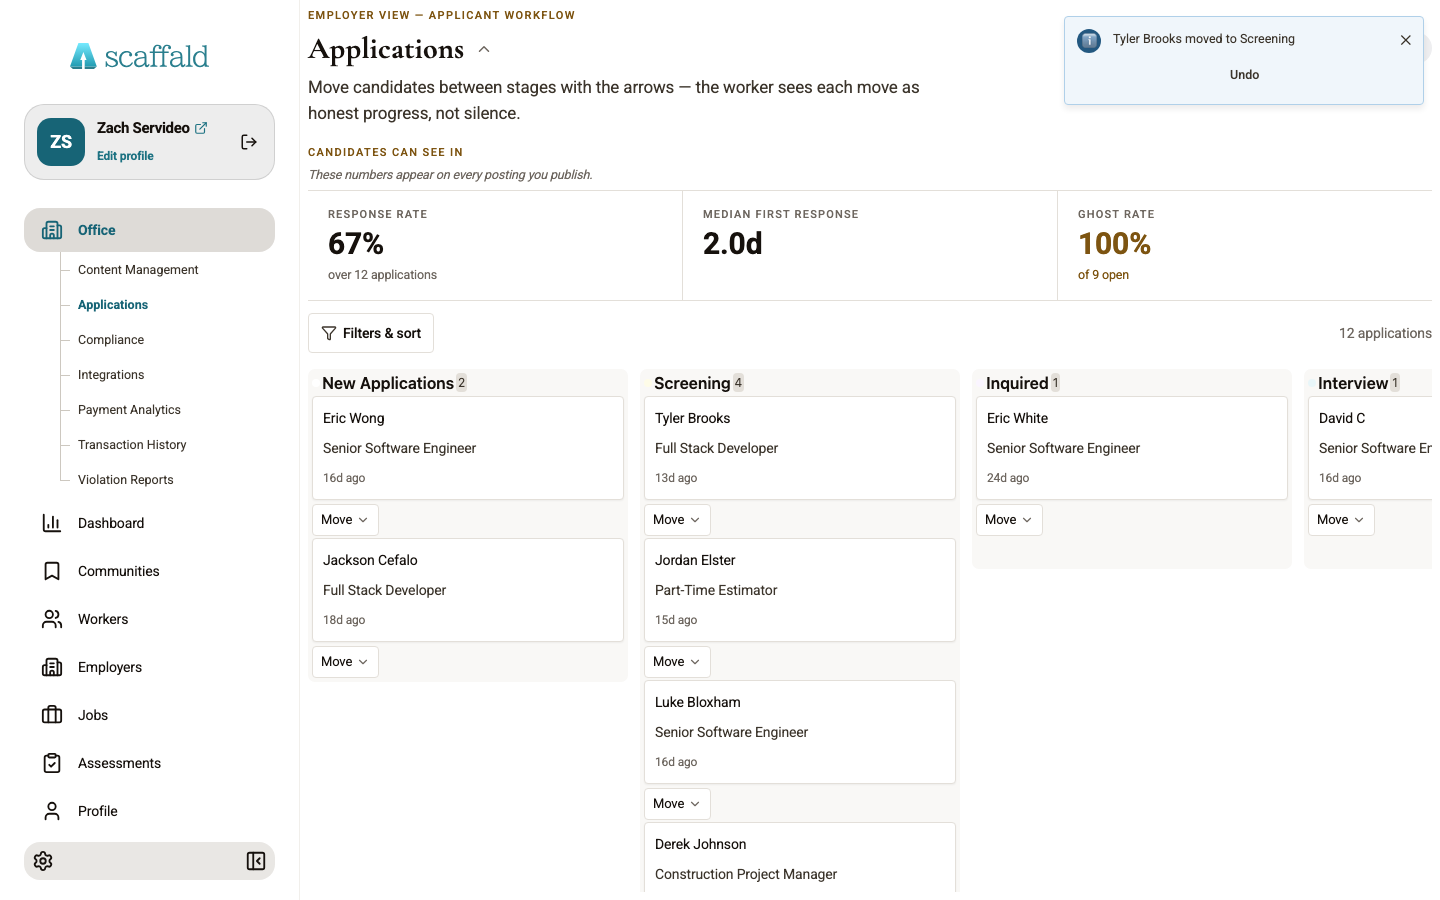
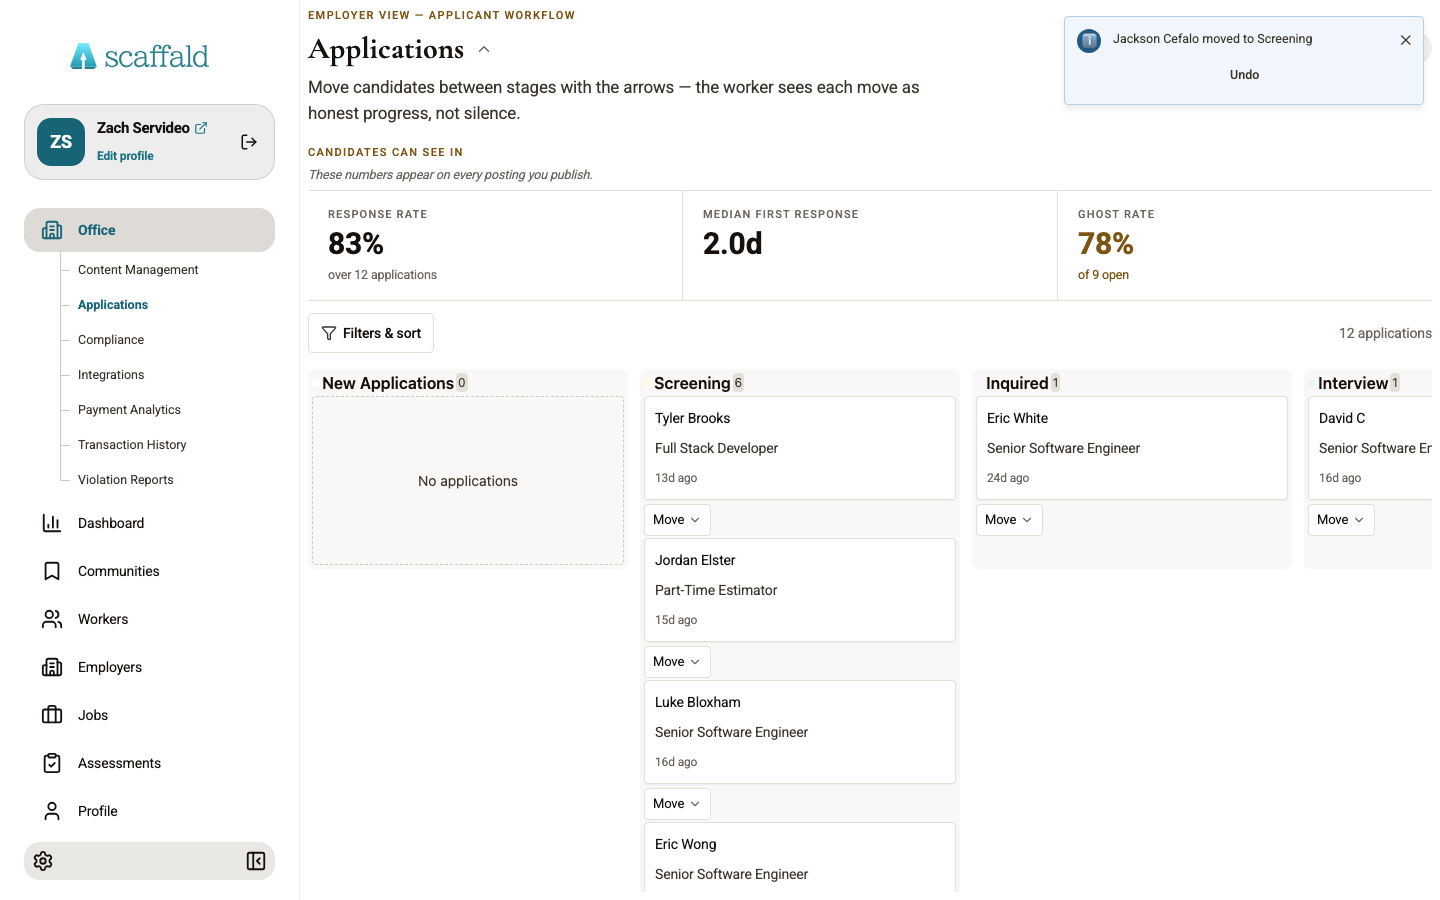
fix(api): an org admin passed both auth checks and then 404'd anyway
Closes #646.

Moving a candidate from the ATS board has never worked. PATCH
/v1/employer/applications/{id} returned 404 "Application not found" for a
row the same user's own list had just returned.

#608 fixed exactly this shape once, by moving the ACCESS lookup above RLS
with `readClient: getServiceClient()`. It left the two statements a few
lines below on the request client:

    const { data: existing } = await supabase   // RLS, as the caller
      .schema("core").from("applications")
      .select("id, status, assigned_to").eq("id", id).single()

`core.applications`' policies recognise the organisation OWNER and the
applicant. An org admin is neither, so the row came back empty, `readError`
was set, and the handler 404'd — after both authorisation checks had already
passed against the organisation. The update statement below had the same
problem and would have written zero rows had the read ever got past it.

Both now use the service client, which is the pattern this file already
documents for the list path: authorisation happened above, against the
organisation, and reading through RLS here silently re-decides it on a
different axis.

Also selects `user_id`. The hire fee check reads `existing.user_id`, and the
select did not include it — so it was undefined on every hire.

─── How it was found, and one wrong turn ─────────────────────────────────

The wire-level smoke added for #643 caught it: the board said a candidate
[…]

diff --git a/packages/supabase/functions/api/routes/employer-applications.ts b/packages/supabase/functions/api/routes/employer-applications.ts
@@ -562,10 +562,26 @@ app.openapi(updateEmployerApplicationRoute, async (c) => {
     );
   }
 
-  const { data: existing, error: readError } = await supabase
+  // Service role, not the request client — the same escape hatch, and the same
+  // reason, as the list path above and #608.
+  //
+  // #608 moved the ACCESS lookup above RLS but left these two statements on the
+  // request client, so an org admin passed both authorisation checks and then
+  // 404'd here: `core.applications`' policies recognise the organisation OWNER
+  // and the applicant, and an admin is neither. The route therefore rejected
+  // exactly the rows its own list had just returned, and moving a candidate
+  // from the board never worked.
+  //
+  // Authorisation happened above, against the organisation. Reading through RLS
+  // here silently re-decides it on a different axis.
+  const db = getServiceClient();
+
+  const { data: existing, error: readError } = await db
     .schema("core")
     .from("applications")
-    .select("id, status, assigned_to")
+    // `user_id` is read below by the hire fee check. It was referenced but not
+    // selected, so `existing.user_id` was undefined on every hire.
+    .select("id, status, assigned_to, user_id")
     .eq("id", id)
     .single();
 
@@ -625,7 +641,10 @@ app.openapi(updateEmployerApplicationRoute, async (c) => {
     payload.assigned_at = now;
   }
 
-  const { data: updated, error: updateError } = await supabase
+  // Same client as the read above: an admin has no RLS write path to this row
+  // either, so leaving the update on the request client would turn a fixed read
+  // into a silent zero-row write.
+  const { data: updated, error: updateError } = await db
     .schema("core")
     .from("applications")
     .update(payload)
